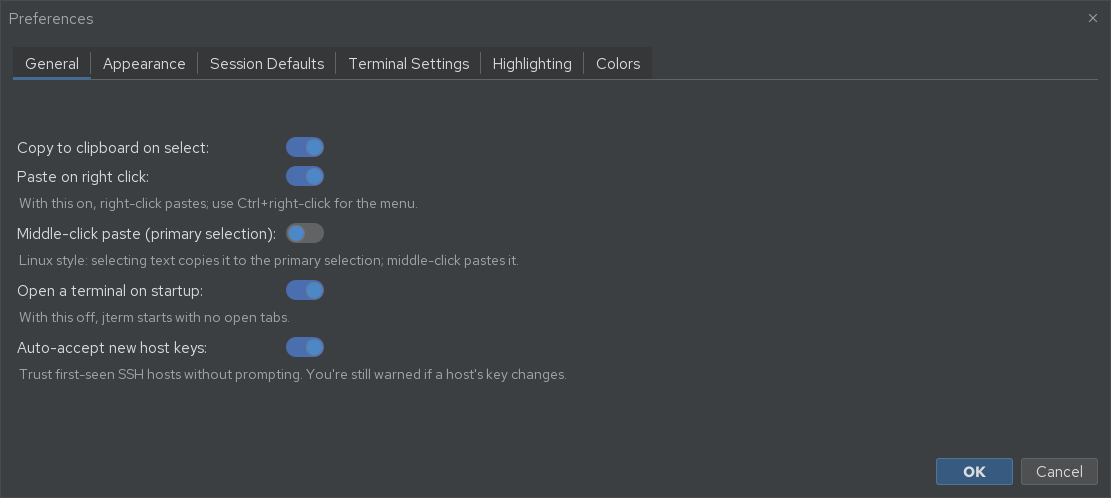
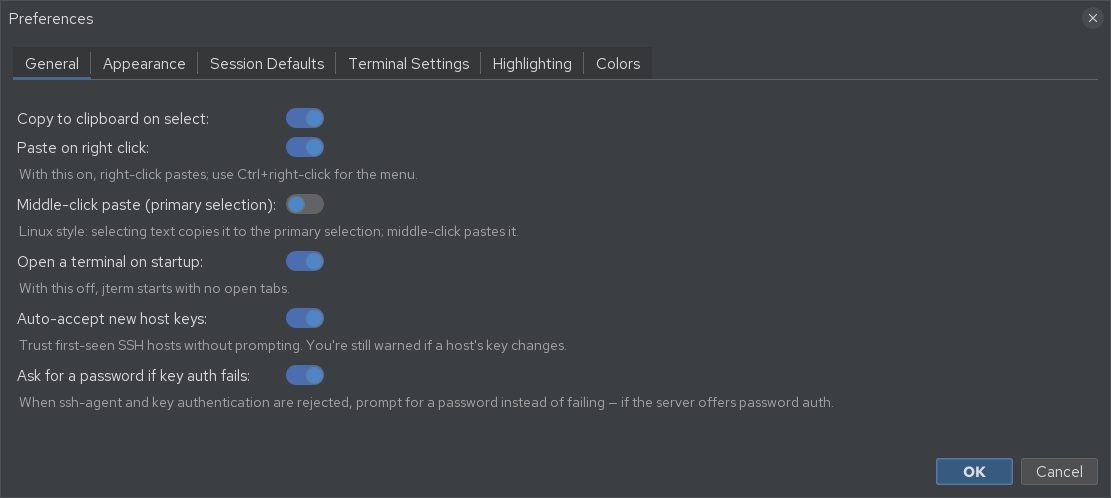
Treat a cancelled auth prompt as giving up on the hop
Cancelling the interactive password dialog re-showed it three times before
the connect finally failed.

MINA's UserAuthKeyboardInteractive reads a null response as "no answers this
round" and re-challenges until its attempt budget is spent, so every cancel
cost the user the full three prompts. UserAuthPassword stops on the first
null, which is why this only showed up against servers offering keyboard-
interactive — a stock PAM-enabled sshd — and not against password-only ones.

Latch the cancel in JtermUserInteraction: an empty answer from either method
now mutes both for the rest of the hop. The latch clears when the connect
moves to the next hop, so cancelling on a jump host does not silence the
prompt for the target.

Verified against an in-process MINA server offering both methods: three
prompts before, one now, with the wrong-password retry and the per-hop cap
unaffected.

diff --git a/src/test/java/com/katmoda/jterm/terminal/ssh/JtermUserInteractionTest.java b/src/test/java/com/katmoda/jterm/terminal/ssh/JtermUserInteractionTest.java
@@ -1,0 +1,138 @@
+/*
+ * jterm — a Java terminal emulator.
+ * Copyright (C) 2026 Mark Moses
+ *
+ * SPDX-License-Identifier: GPL-3.0-or-later
+ */
+package com.katmoda.jterm.terminal.ssh;
+
+import org.junit.jupiter.api.Test;
+
+import java.util.ArrayList;
+import java.util.List;
+
+import static org.junit.jupiter.api.Assertions.assertEquals;
+import static org.junit.jupiter.api.Assertions.assertFalse;
+import static org.junit.jupiter.api.Assertions.assertNull;
+import static org.junit.jupiter.api.Assertions.assertTrue;
+
+/**
+ * Prompt budgeting for the interactive auth fallback. The {@link org.apache.sshd.client.session.ClientSession}
+ * argument is unused by the implementation, so these run headless with {@code null}.
+ */
+class JtermUserInteractionTest {
+
+    private static final SshConnect.HostHop HOP =
+            new SshConnect.HostHop("host.example", 22, "me", null, null, "cfg-id");
+
+    /** Records every call and answers with a fixed script ({@code null} = the user cancelled). */
+    private static final class Delegate implements SshConnect.InteractiveAuth {
+        final List<String> calls = new ArrayList<>();
+        private final String answer;
+
+        Delegate(String answer) {
+            this.answer = answer;
+        }
+
+        @Override
+        public String passwordFor(SshConnect.HostHop hop, int attempt) {
+            calls.add("password:" + attempt);
+            return answer;
+        }
+
+        @Override
+        public String[] challenge(SshConnect.HostHop hop, String instruction, String[] prompts,
+                                  boolean[] echo) {
+            calls.add("challenge");
+            return answer == null ? null : new String[]{answer};
+        }
+    }
+
+    private static JtermUserInteraction onHop(Delegate delegate) {
+        JtermUserInteraction interaction = new JtermUserInteraction(delegate);
+        interaction.setCurrentHop(HOP);
+        return interaction;
+    }
+
+    private static String[] oneChallenge(JtermUserInteraction interaction) {
+        return interaction.interactive(null, "", "Two-factor", "en",
+                new String[]{"Password: "}, new boolean[]{false});
+    }
+
+    @Test
+    void cancellingAChallengeStopsAllFurtherPrompts() {
+        // MINA's keyboard-interactive method re-challenges on a null response until its own
+        // budget runs out; cancel has to latch or the dialog reappears (once per remaining try).
+        Delegate delegate = new Delegate(null);
+        JtermUserInteraction interaction = onHop(delegate);
+
+        assertNull(oneChallenge(interaction));
+        assertNull(oneChallenge(interaction));
+        assertNull(interaction.resolveAuthPasswordAttempt(null));
+
+        assertEquals(List.of("challenge"), delegate.calls);
+        assertFalse(interaction.isInteractionAllowed(null));
+    }
+
+    @Test
+    void cancellingAPasswordPromptStopsTheChallengePathToo() {
+        Delegate delegate = new Delegate(null);
+        JtermUserInteraction interaction = onHop(delegate);
+
+        assertNull(interaction.resolveAuthPasswordAttempt(null));
+        assertNull(oneChallenge(interaction));
+
+        assertEquals(List.of("password:0"), delegate.calls);
+    }
+
+    @Test
+    void answeredPromptsAreCappedPerHop() {
+        // MINA allows 3 attempts per auth method, so a server offering both would ask six times.
+        Delegate delegate = new Delegate("pw");
+        JtermUserInteraction interaction = onHop(delegate);
+
+        for (int i = 0; i < 5; i++) {
+            interaction.resolveAuthPasswordAttempt(null);
+            oneChallenge(interaction);
+        }
+
+        // The budget is hop-wide, so the attempt index counts every prompt on the hop rather than
+        // restarting per method — the user sees "try again" on their second try either way.
+        assertEquals(3, delegate.calls.size());
+        assertEquals(List.of("password:0", "challenge", "password:2"), delegate.calls);
+    }
+
+    @Test
+    void attemptIndexIncrementsSoTheRetryCanShowAnError() {
+        Delegate delegate = new Delegate("pw");
+        JtermUserInteraction interaction = onHop(delegate);
+
+        interaction.resolveAuthPasswordAttempt(null);
+        interaction.resolveAuthPasswordAttempt(null);
+
+        assertEquals(List.of("password:0", "password:1"), delegate.calls);
+    }
+
+    @Test
+    void movingToTheNextHopClearsTheCancelAndTheBudget() {
+        Delegate delegate = new Delegate(null);
+        JtermUserInteraction interaction = onHop(delegate);
+        interaction.resolveAuthPasswordAttempt(null);
+        assertFalse(interaction.isInteractionAllowed(null));
+
+        // A jump-host chain authenticates hops in turn; cancelling one must not mute the next.
+        interaction.setCurrentHop(new SshConnect.HostHop("next.example", 22, "me", null, null, null));
+
+        assertTrue(interaction.isInteractionAllowed(null));
+    }
+
+    @Test
+    void noPromptsBeforeAHopIsSet() {
+        Delegate delegate = new Delegate("pw");
+        JtermUserInteraction interaction = new JtermUserInteraction(delegate);
+
+        assertNull(interaction.resolveAuthPasswordAttempt(null));
+        assertFalse(interaction.isInteractionAllowed(null));
+        assertTrue(delegate.calls.isEmpty());
+    }
+}

diff --git a/src/main/java/com/katmoda/jterm/terminal/ssh/JtermUserInteraction.java b/src/main/java/com/katmoda/jterm/terminal/ssh/JtermUserInteraction.java
@@ -67,6 +67,7 @@ final class JtermUserInteraction implements UserInteraction {
 
     private volatile SshConnect.HostHop currentHop;
     private volatile int prompts;
+    private volatile boolean cancelled;
     private final AtomicBoolean prompting = new AtomicBoolean();
     private final AtomicLong activity = new AtomicLong();
 
@@ -78,6 +79,7 @@ final class JtermUserInteraction implements UserInteraction {
     void setCurrentHop(SshConnect.HostHop hop) {
         this.currentHop = hop;
         this.prompts = 0;
+        this.cancelled = false;
     }
 
     /** Tell the delegate this hop authenticated, so it can persist a remembered password. */
@@ -100,31 +102,52 @@ final class JtermUserInteraction implements UserInteraction {
 
     @Override
     public boolean isInteractionAllowed(ClientSession session) {
-        return currentHop != null && prompts < MAX_PROMPTS_PER_HOP;
+        return canPrompt();
     }
 
     @Override
     public String resolveAuthPasswordAttempt(ClientSession session) {
         SshConnect.HostHop hop = currentHop;
-        if (hop == null || prompts >= MAX_PROMPTS_PER_HOP) {
+        if (!canPrompt()) {
             return null;
         }
         int attempt = prompts++;
-        return prompt(() -> delegate.passwordFor(hop, attempt));
+        return record(prompt(() -> delegate.passwordFor(hop, attempt)));
     }
 
     @Override
     public String[] interactive(ClientSession session, String name, String instruction,
                                 String lang, String[] prompt, boolean[] echo) {
         SshConnect.HostHop hop = currentHop;
-        if (hop == null || prompts >= MAX_PROMPTS_PER_HOP) {
+        if (!canPrompt()) {
             return null;
         }
         prompts++;
         // The server's own instruction is the useful text; its "name" is usually blank, so fall
         // back to it only when there is nothing else to show above the fields.
         String text = instruction != null && !instruction.isBlank() ? instruction : name;
-        return prompt(() -> delegate.challenge(hop, text, prompt, echo));
+        return record(prompt(() -> delegate.challenge(hop, text, prompt, echo)));
+    }
+
+    /** Whether another prompt may be shown for the current hop. */
+    private boolean canPrompt() {
+        return currentHop != null && !cancelled && prompts < MAX_PROMPTS_PER_HOP;
+    }
+
+    /**
+     * Latches "the user gave up" when a prompt comes back empty.
+     *
+     * <p>Without this, cancelling would still be re-asked: {@code UserAuthKeyboardInteractive}
+     * reads a null response as "no answers <em>this round</em>" and re-challenges until its
+     * attempt budget runs out, so the dialog reappeared up to {@link #MAX_PROMPTS_PER_HOP} times.
+     * ({@code UserAuthPassword} stops on the first null, which is why the plain-password path
+     * never showed the bug.) Cancel means cancel — for the whole hop, both methods.</p>
+     */
+    private <T> T record(T answer) {
+        if (answer == null) {
+            cancelled = true;
+        }
+        return answer;
     }
 
     /**

diff --git a/src/main/java/com/katmoda/jterm/terminal/ssh/SshConnect.java b/src/main/java/com/katmoda/jterm/terminal/ssh/SshConnect.java
@@ -118,8 +118,8 @@ public final class SshConnect {
      * implementation marshals its own prompts — and only for auth methods the server actually
      * offers, so a key-only server never triggers a prompt.
      *
-     * <p>Returning {@code null} gives up on the method (the connect then fails with an
-     * {@link SshAuthException}), which is how a cancelled prompt is expressed.</p>
+     * <p>Returning {@code null} means the user cancelled: no further prompt is shown for that hop
+     * by <em>either</em> method, and the connect fails with an {@link SshAuthException}.</p>
      */
     public interface InteractiveAuth {
 

diff --git a/docs/architecture/adr/0008-interactive-auth-via-mina-userinteraction.md b/docs/architecture/adr/0008-interactive-auth-via-mina-userinteraction.md
@@ -60,6 +60,11 @@ prompt with it. Only when that is rejected does the user see a dialog, and then 
 - **The prompt cap had to be re-imposed.** `PASSWORD_PROMPTS` is enforced *per auth method*, so a
   server offering both keyboard-interactive and password would ask six times.
   `JtermUserInteraction` counts prompts per hop and stops at three.
+- **Cancel had to be latched.** `UserAuthKeyboardInteractive` reads a null response as "no answers
+  *this round*" and re-challenges until its budget is spent, so cancelling re-showed the dialog
+  three times on a stock PAM-enabled sshd. (`UserAuthPassword` stops on the first null, which is
+  why a password-only server never showed it.) `JtermUserInteraction` now treats an empty answer
+  as "the user gave up" for the whole hop, across both methods.
 - **The "worker never prompts" invariant is gone**, and the documentation says so. The invariant
   that survives is the one that actually matters: Swing is only ever touched on the EDT. Encrypted
   `~/.ssh` default identities already violated the old wording — their passphrase is requested

diff --git a/docs/ssh-auth-and-vault.md b/docs/ssh-auth-and-vault.md
@@ -27,7 +27,8 @@ This covers the everyday cases where a connect used to just fail:
 - a **saved password is out of date** — the prompt reappears with *"Authentication failed — try
   again."* instead of dropping you back to an error dialog.
 
-You get up to **three** attempts per host, matching OpenSSH. Tick **Remember this password** to
+You get up to **three** attempts per host, matching OpenSSH. **Cancel** gives up immediately — the
+connect fails rather than asking again. Tick **Remember this password** to
 save it to the vault, and jterm enables *Password auth* + *Save password* on the session for you —
 the next connect won't ask. The password is only saved once it has actually worked, so a typo is
 never stored.
